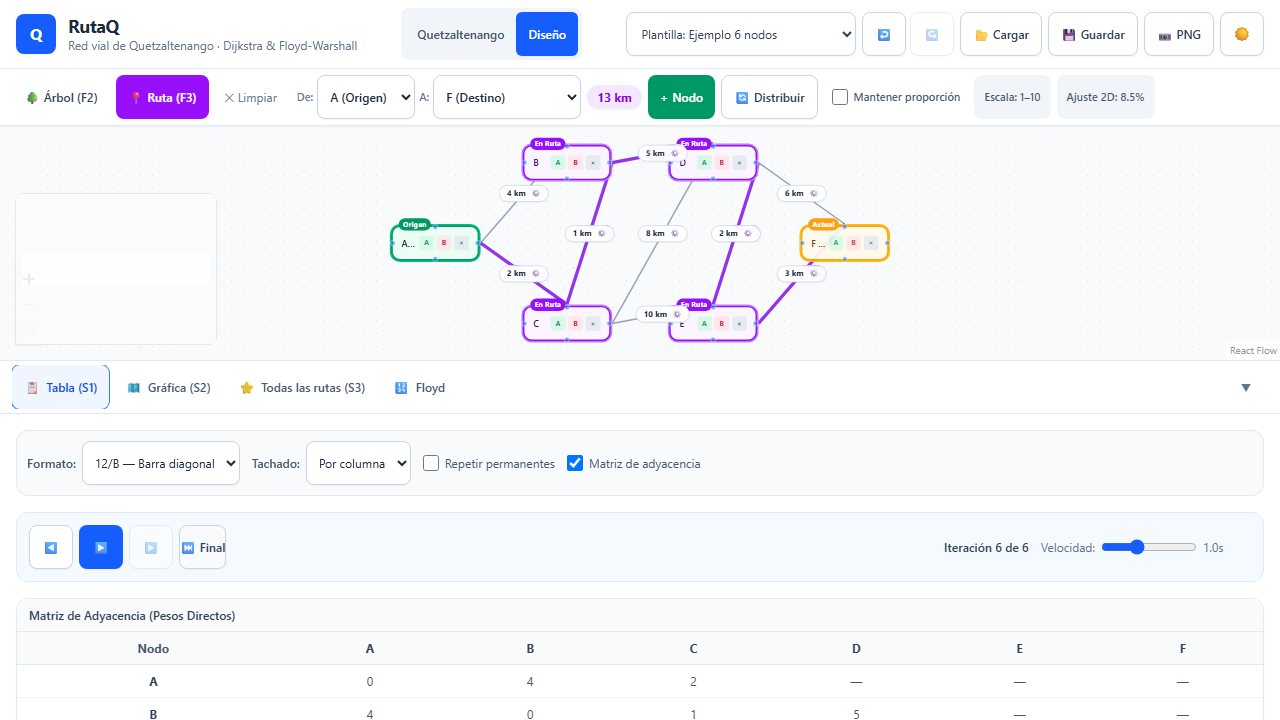
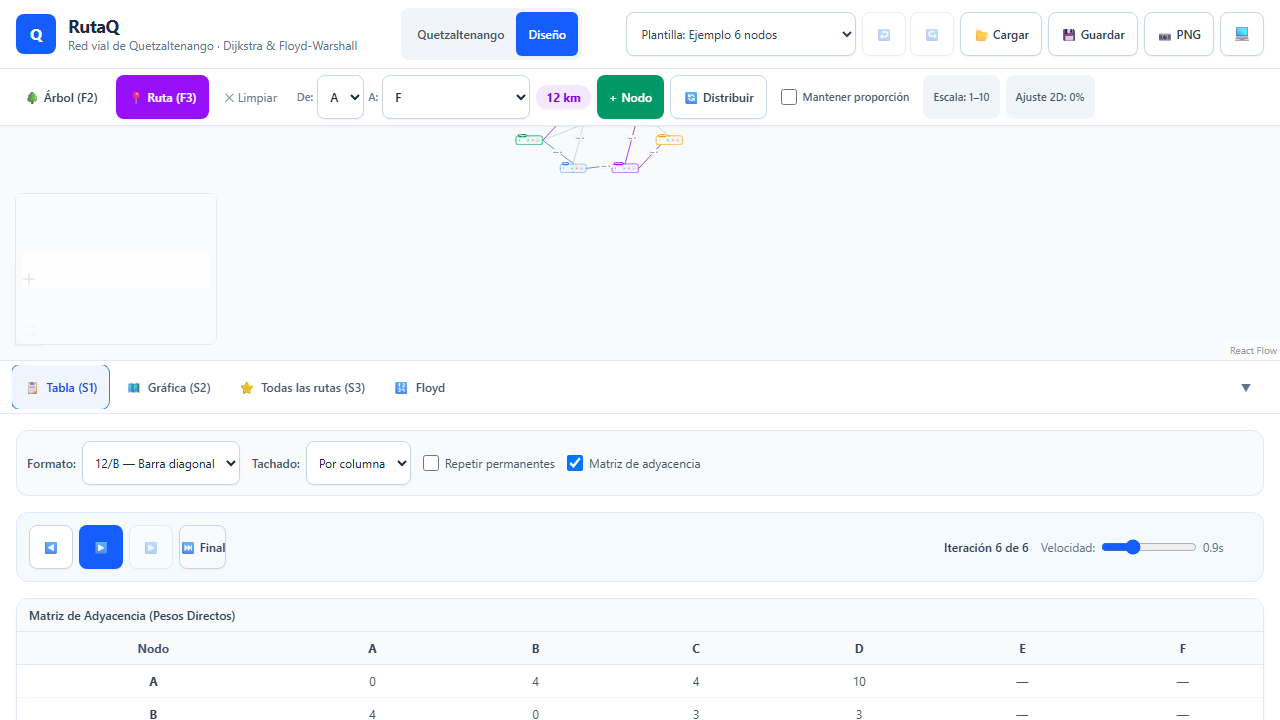
feat(integración): UI conectada al store real; mapa de Quetzaltenango sin nodos encimados

diff --git a/src/store/dataset.ts b/src/store/dataset.ts
@@ -7,7 +7,7 @@ export const DEFAULT_NODE_SIZE = { w: 132, h: 44 } as const;
  * en el centroide (suficiente para un departamento de ~2 000 km²) escalada a `widthPx` de ancho;
  * el norte queda arriba. (x, y) es la esquina superior izquierda del nodo.
  */
-export function datasetToGraph(ds: Dataset, widthPx = 1400): Graph {
+export function datasetToGraph(ds: Dataset, widthPx = 2400): Graph {
   if (ds.nodes.length === 0) return { nodes: [], edges: [], directed: false, unit: ds.meta.unidad };
 
   const lat0 = ds.nodes.reduce((a, n) => a + n.lat, 0) / ds.nodes.length;
@@ -38,5 +38,43 @@ export function datasetToGraph(ds: Dataset, widthPx = 1400): Graph {
     meta,
   }));
 
+  separateNodes(nodes);
   return { nodes, edges, directed: false, unit: ds.meta.unidad };
+}
+
+/**
+ * Las cabeceras del altiplano están a 2–3 km entre sí: proyectadas, sus cajas se enciman.
+ * Empuja cada par encimado a lo largo de la recta que une sus centros (mínimo desplazamiento,
+ * determinista), así se conserva la forma geográfica del departamento.
+ */
+export function separateNodes(nodes: GNode[], gap = 16, maxIter = 300): void {
+  for (let iter = 0; iter < maxIter; iter++) {
+    let moved = false;
+    for (let i = 0; i < nodes.length; i++)
+      for (let j = i + 1; j < nodes.length; j++) {
+        const a = nodes[i]!;
+        const b = nodes[j]!;
+        const dx = b.x + b.w / 2 - (a.x + a.w / 2);
+        const dy = b.y + b.h / 2 - (a.y + a.h / 2);
+        const overlapX = (a.w + b.w) / 2 + gap - Math.abs(dx);
+        const overlapY = (a.h + b.h) / 2 + gap - Math.abs(dy);
+        if (overlapX <= 0 || overlapY <= 0) continue;
+        // Se separa por el eje que requiere menos movimiento.
+        if (overlapX / Math.max(1, Math.abs(dx)) < overlapY / Math.max(1, Math.abs(dy))) {
+          const s = (dx >= 0 ? 1 : -1) * (overlapX / 2);
+          a.x -= s;
+          b.x += s;
+        } else {
+          const s = (dy >= 0 ? 1 : -1) * (overlapY / 2);
+          a.y -= s;
+          b.y += s;
+        }
+        moved = true;
+      }
+    if (!moved) break;
+  }
+  for (const n of nodes) {
+    n.x = Math.round(n.x);
+    n.y = Math.round(n.y);
+  }
 }

diff --git a/src/ui/useApp.ts b/src/ui/useApp.ts
@@ -1,18 +1,16 @@
 import type { AppState } from '../store/types';
-import { useMockStore } from './mock/mockStore';
+import { useAppStore } from '../store/useAppStore';
 
 /**
- * Hook principal para acceder al estado de la aplicación.
- * Durante la Fase F1 (desarrollo de interfaz) consume el store simulado (mock).
- * En la Fase F2 el orquestador apuntará este hook al store real de Zustand
- * sin necesidad de modificar ningún componente de la UI.
+ * Hook principal para acceder al estado de la aplicación (store real de Zustand desde la Fase F2).
+ * El store simulado sigue disponible en ./mock/mockStore para desarrollo aislado de la UI.
  */
 export function useApp(): AppState;
 export function useApp<T>(selector: (state: AppState) => T): T;
 export function useApp<T>(selector?: (state: AppState) => T) {
-  return useMockStore(selector!);
+  return useAppStore(selector!);
 }
 
-useApp.getState = useMockStore.getState;
-useApp.setState = useMockStore.setState;
-useApp.subscribe = useMockStore.subscribe;
+useApp.getState = useAppStore.getState;
+useApp.setState = useAppStore.setState;
+useApp.subscribe = useAppStore.subscribe;

diff --git a/tests/unit/store/dataset.test.ts b/tests/unit/store/dataset.test.ts
@@ -50,3 +50,20 @@ describe('datasetToGraph', () => {
     expect(datasetToGraph({ ...ds, nodes: [], edges: [] }).nodes).toEqual([]);
   });
 });
+
+describe('datasetToGraph con el dataset real', () => {
+  it('ningún par de municipios queda encimado', async () => {
+    const { default: q } = await import('../../../src/data/quetzaltenango.json');
+    const g = datasetToGraph(q as Dataset);
+    expect(g.nodes).toHaveLength(24);
+    for (const [i, a] of g.nodes.entries())
+      for (const b of g.nodes.slice(i + 1)) {
+        const libre = a.x + a.w <= b.x || b.x + b.w <= a.x || a.y + a.h <= b.y || b.y + b.h <= a.y;
+        expect(libre, `${a.label} / ${b.label}`).toBe(true);
+      }
+    // La geografía se conserva: Coatepeque (costa, oeste) queda al sur-oeste de Quetzaltenango.
+    const by = (id: string) => g.nodes.find((n) => n.id === id)!;
+    expect(by('COA').y).toBeGreaterThan(by('QTZ').y);
+    expect(by('COA').x).toBeLessThan(by('QTZ').x);
+  });
+});
